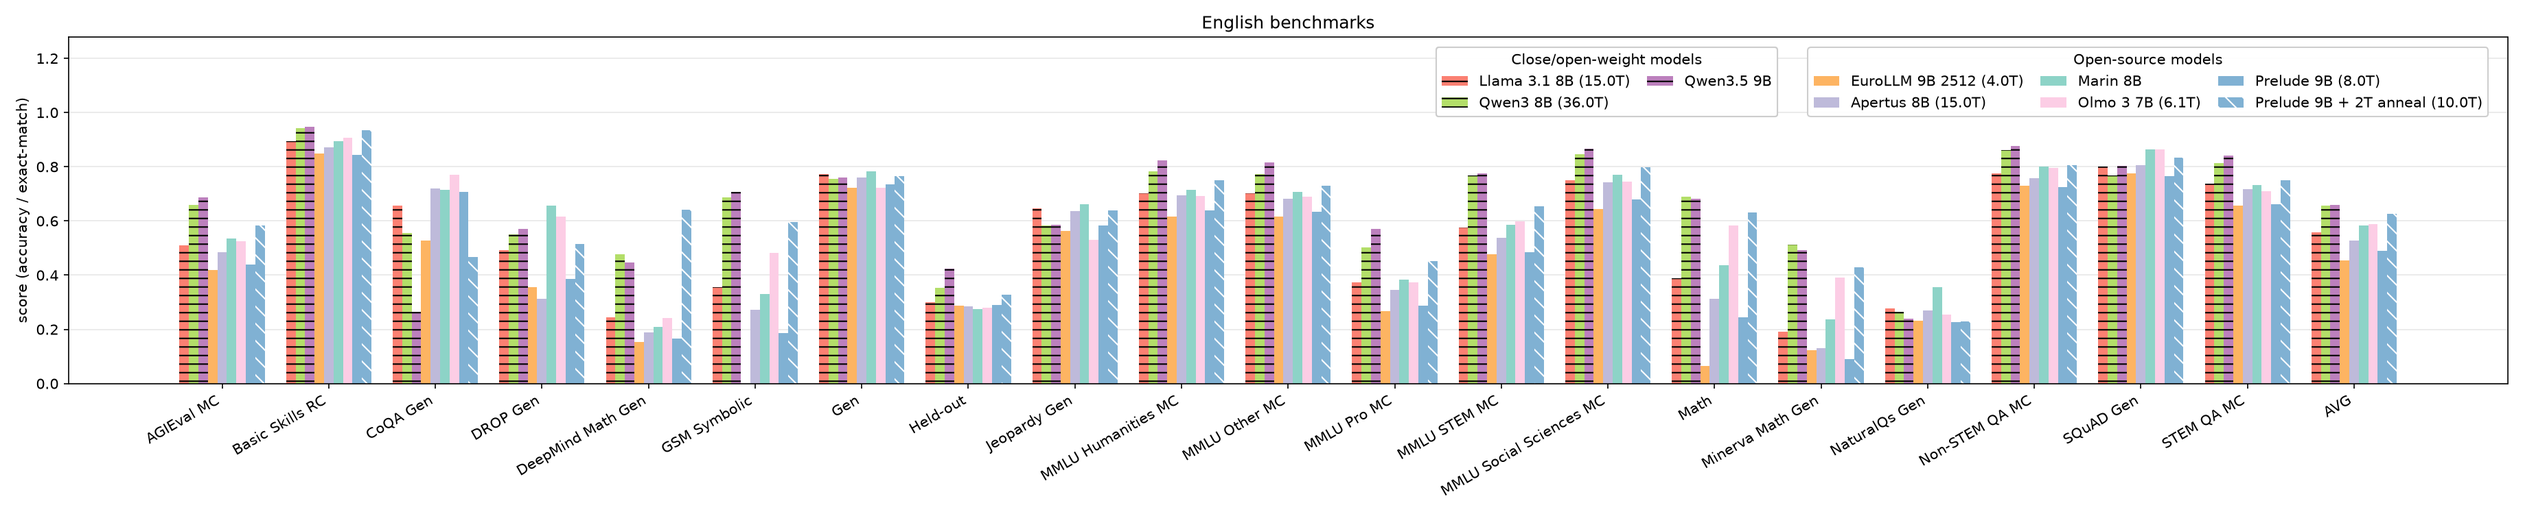
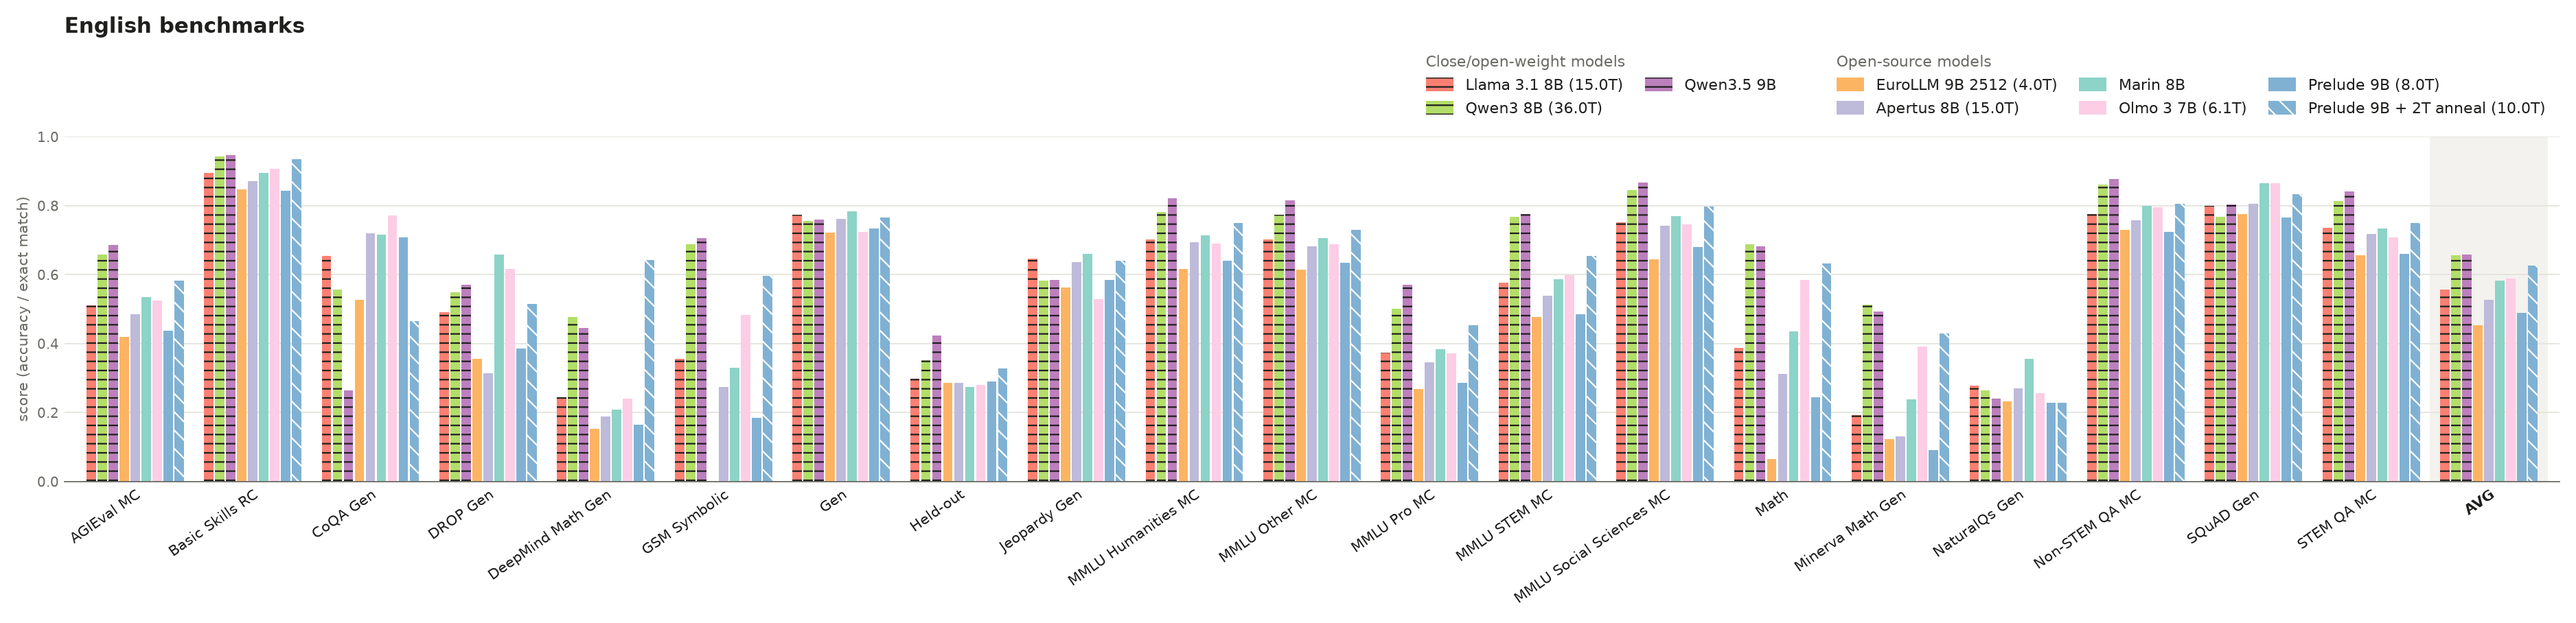
fancier plots

diff --git a/prelude-evaluations-model-card/plot_results.py b/prelude-evaluations-model-card/plot_results.py
@@ -395,69 +395,103 @@ def to_markdown(df: pd.DataFrame) -> str:
     return "\n".join(lines)
 
 
+INK, MUTED, GRID, AVG_BAND = "#1f1f1e", "#6b6a64", "#e4e3dd", "#f3f2ee"
+LEGEND_BAND_IN = 1.0     # inches above the axes for the legends (title above)
+
+
 def bars(ax, table: pd.DataFrame, names: dict[str, str]):
-    width = 0.8 / len(table)
+    """Grouped bars, one group per column; a hairline gap between bars. The
+    AVG group sits on a light band."""
+    n = len(table)
+    slot = 0.84 / n
     for i, (label, row) in enumerate(table.iterrows()):
-        xs = [j + i * width - 0.4 + width / 2 for j in range(len(table.columns))]
+        xs = [j - 0.42 + slot * (i + 0.5) for j in range(len(table.columns))]
         color, style = STYLES[names[label]]
         if style == WEIGHTS:
-            kw = dict(facecolor=color, edgecolor="black", hatch="--", linewidth=0)
+            kw = dict(facecolor=color, edgecolor=INK, hatch="--", linewidth=0)
         elif style == ANNEAL:   # hatch lines take the edge colour: white
             kw = dict(facecolor=color, edgecolor="white", hatch="\\\\", linewidth=0)
         else:
             kw = dict(facecolor=color, linewidth=0)
-        ax.bar(xs, row, width=width, label=label, **kw)
+        ax.bar(xs, row, width=slot * 0.86, label=label, zorder=2, **kw)
+    if "AVG" in table.columns:
+        j = list(table.columns).index("AVG")
+        ax.axvspan(j - 0.5, j + 0.5, color=AVG_BAND, zorder=0, lw=0)
     ax.set_xticks(range(len(table.columns)))
-    ax.set_xticklabels(table.columns, rotation=30, ha="right")
-    ax.grid(axis="y", alpha=0.3)
+    ax.set_xticklabels(table.columns, rotation=35, ha="right",
+                       rotation_mode="anchor", fontsize=9.5, color=INK)
+    for tick in ax.get_xticklabels():
+        if tick.get_text() == "AVG":
+            tick.set_fontweight("bold")
+    ax.set_xlim(-0.6, len(table.columns) - 0.4)
+    ax.grid(axis="y", color=GRID, lw=0.8, zorder=1)
     ax.set_axisbelow(True)
+    for side in ("top", "right"):
+        ax.spines[side].set_visible(False)
+    ax.spines["left"].set_visible(False)
+    ax.spines["bottom"].set_color(MUTED)
+    ax.tick_params(axis="y", length=0, colors=MUTED, labelsize=9)
+    ax.tick_params(axis="x", length=0, pad=4)
 
 
-def legend_boxes(ax, names: dict[str, str], fontsize: float = 10):
-    """Two legend boxes in the top-right corner, two rows each:
-    open-weight models | open-source models (Prelude included). Placed right
-    to left, each against the left edge of the previous one; a box is skipped
-    when it would be empty."""
+def legend_boxes(fig, ax, names: dict[str, str], fontsize: float = 10):
+    """Two legend boxes in the band above the axes, right-aligned with them,
+    two rows each: open-weight models | open-source models (Prelude included).
+    Placed right to left in figure coordinates; an empty box is skipped.
+    Returns the top of the legends in figure coordinates."""
     handles, labels = ax.get_legend_handles_labels()
     weights = [STYLES[names[l]][1] == WEIGHTS for l in labels]
     boxes = [("Close/open-weight models", [i for i, w in enumerate(weights) if w]),
              ("Open-source models", [i for i, w in enumerate(weights) if not w])]
-    renderer = ax.figure.canvas.get_renderer()
-    right = 0.995
+    renderer = fig.canvas.get_renderer()
+    pos = ax.get_position()
+    right, top = fig.axes[-1].get_position().x1, pos.y1 + 0.01
+    legend_top = top
     for title, idx in reversed([(t, idx) for t, idx in boxes if idx]):
-        leg = ax.legend([handles[i] for i in idx], [labels[i] for i in idx],
-                        title=title, title_fontsize=fontsize, fontsize=fontsize,
-                        loc="upper right", bbox_to_anchor=(right, 0.99),
-                        ncol=-(-len(idx) // 2), framealpha=0.95,
-                        columnspacing=1.2, handlelength=1.8)
-        ax.add_artist(leg)
-        box = leg.get_window_extent(renderer).transformed(ax.transAxes.inverted())
-        right = box.x0 - 0.008
+        leg = fig.legend([handles[i] for i in idx], [labels[i] for i in idx],
+                         title=title, title_fontsize=fontsize, fontsize=fontsize,
+                         loc="lower right", bbox_to_anchor=(right, top),
+                         ncol=-(-len(idx) // 2), frameon=False,
+                         columnspacing=1.4, handlelength=1.8, handleheight=1.0,
+                         labelcolor=INK)
+        leg.get_title().set_color(MUTED)
+        leg._legend_box.align = "left"
+        box = leg.get_window_extent(renderer).transformed(fig.transFigure.inverted())
+        right, legend_top = box.x0 - 0.01, max(legend_top, box.y1)
+    return legend_top
 
 
 def plot(name: str, df: pd.DataFrame, acc: pd.DataFrame,
          trans: pd.DataFrame | None, out: str):
     names = df.drop_duplicates("label").set_index("label")["name"].to_dict()
     ncols = len(acc.columns) + (len(trans.columns) if trans is not None else 0)
+    height = 5.6
     fig, axes = plt.subplots(
         1, 2 if trans is not None else 1,
-        figsize=(max(1.0 * ncols + 3.5, 9), 5.0), squeeze=False,
-        gridspec_kw={"width_ratios": [len(acc.columns), len(trans.columns) + 0.25]}
+        figsize=(max(0.95 * ncols + 3.5, 11), height), squeeze=False,
+        gridspec_kw={"width_ratios": [len(acc.columns), len(trans.columns) + 0.4],
+                     "wspace": 0.08}
         if trans is not None else None)
     ax = axes[0, 0]
     bars(ax, acc, names)
-    ax.set_ylabel("score (accuracy / exact-match)")
-    ax.set_title(f"{name} benchmarks")
-    ax.set_ylim(0, acc.max().max() * 1.35)  # headroom for the legends
+    ax.set_ylabel("score (accuracy / exact match)", color=MUTED, fontsize=9.5)
+    top = acc.max().max()
+    ax.set_ylim(0, max(1.0, top + 0.03))
     if trans is not None:
         ax2 = axes[0, 1]
         bars(ax2, trans, names)
+        ax2.set_ylim(0, trans.max().max() * 1.12)
         metrics = sorted(set(df.loc[df["translation"], "metric"]))
-        ax2.set_ylabel(f"{' / '.join(metrics)} (0-100)")
-        ax2.set_title("Translation")
-    fig.tight_layout()
-    legend_boxes(ax, names)   # after layout, so box widths are final
-    fig.savefig(out, dpi=150)
+        ax2.set_ylabel(f"{' / '.join(m.upper() for m in metrics)} (0-100)",
+                       color=MUTED, fontsize=9.5)
+        ax2.set_title("Translation", loc="left", fontsize=10.5, color=INK, pad=6)
+    fig.tight_layout(rect=(0, 0, 1, 1 - LEGEND_BAND_IN / height))
+    legend_top = legend_boxes(fig, ax, names)   # after layout: positions final
+    fig.text(ax.get_position().x0, legend_top + 0.1 / height, f"{name} benchmarks",
+             ha="left", va="bottom", fontsize=14, fontweight="semibold", color=INK)
+    fig.savefig(out, dpi=160, facecolor="white", bbox_inches="tight",
+                pad_inches=0.15)
+    plt.close(fig)
     print(f"wrote {out}")
 
 
